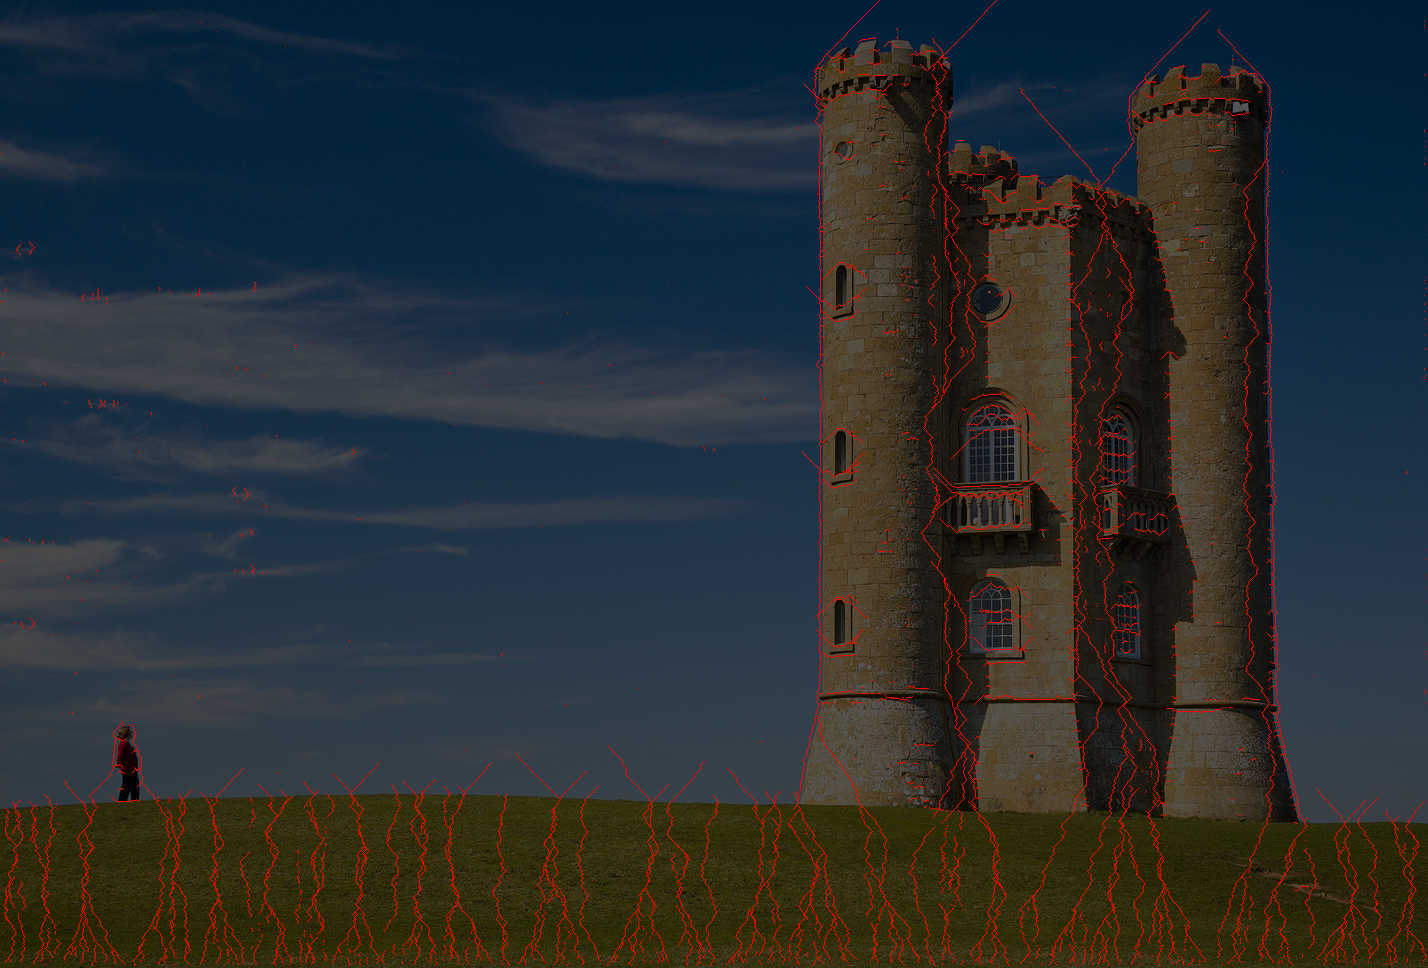
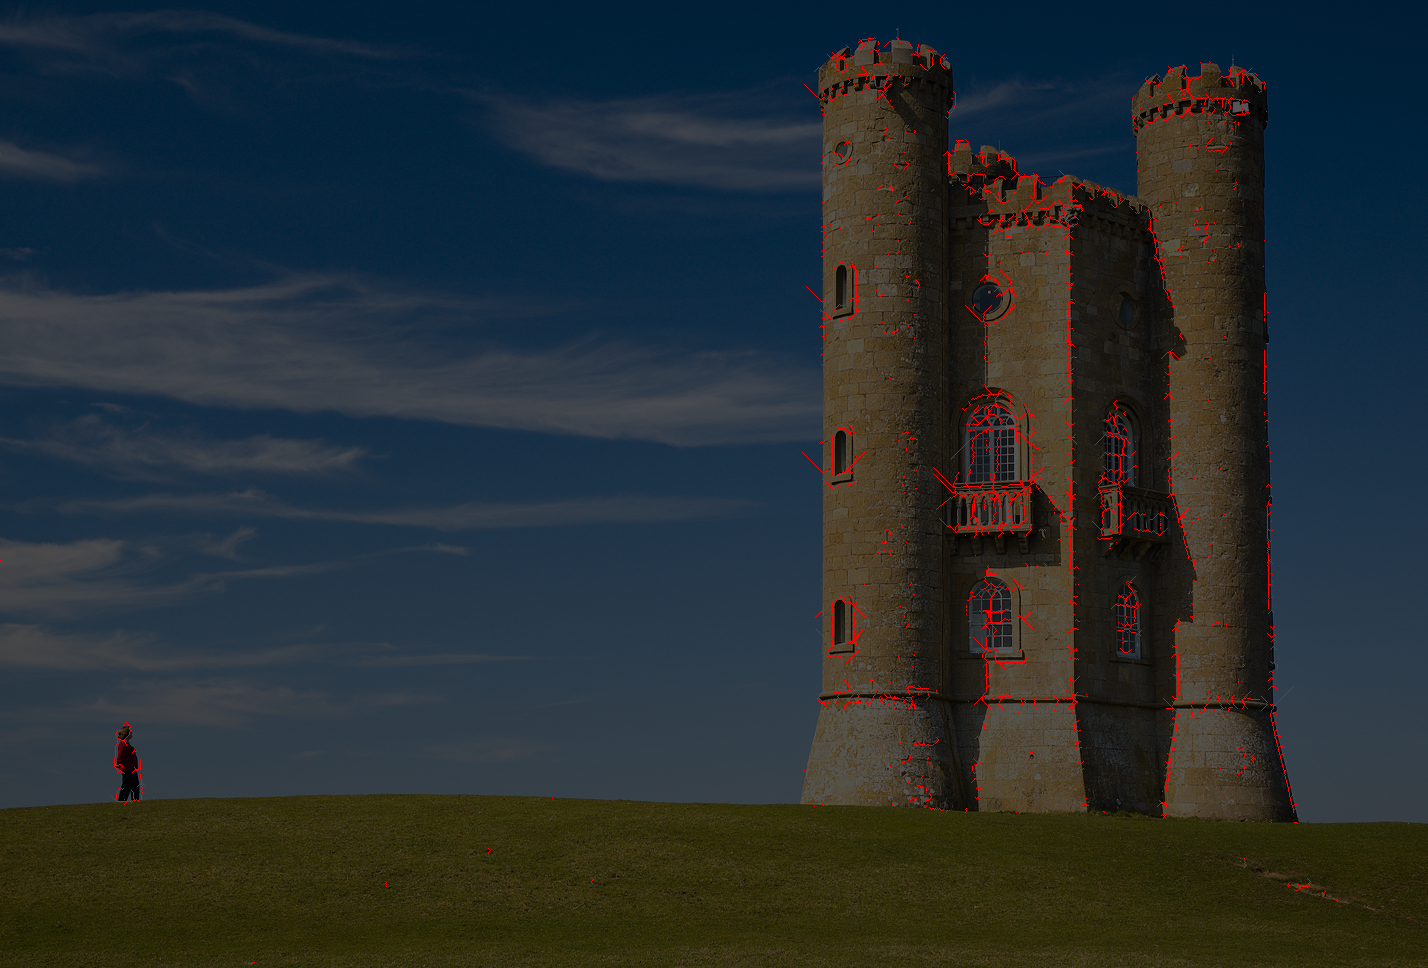
Further experiments

diff --git a/src/libSeamCarve.c b/src/libSeamCarve.c
@@ -86,7 +86,7 @@ static void findSeams(struct pixel *imageVector, int imageWidth, int imageHeight
 
 			// move right-to-left ot bottom-to-top across/up the image
 			//printf("%d\n", (imageSize - 1));
-			for (int j = (imageSize - 1); j >= 0; --j) {
+			for (int j = (imageSize - 1); j > 0; --j) {
 
 				// THIS IS THE CRUCIAL PART
 				if (imageVector[minValueLocation].usecount < (255-SEAM_TRACE_INCREMENT)) {
@@ -97,6 +97,7 @@ static void findSeams(struct pixel *imageVector, int imageWidth, int imageHeight
 				}
 
 				// get the possible next pixles
+				/*
 				if (direction == directionVertical) {
 					if (((minValueLocation - imageWidth + 1) % imageWidth) != 0) {
 						nextPixelR = imageVector[minValueLocation - imageWidth + 1].seamval;
@@ -114,6 +115,19 @@ static void findSeams(struct pixel *imageVector, int imageWidth, int imageHeight
 						nextPixelL = INT_MAX;
 					}
 				}
+				*/
+	            if ((minValueLocation - nextPixelDistR) > 0) {
+	                nextPixelR = imageVector[minValueLocation - nextPixelDistR].seamval;
+	            } else {
+	                nextPixelR = INT_MAX;
+	            }
+	            nextPixelC = imageVector[minValueLocation - nextPixelDistC].seamval;
+	            if ((minValueLocation - nextPixelDistL) < loopEnd) {
+	                nextPixelL = imageVector[minValueLocation - nextPixelDistL].seamval;
+	            } else {
+	                nextPixelL = INT_MAX;
+	            }
+
 				// use the minimum of the possible pixels
 				currentMin = min3(nextPixelR, nextPixelC, nextPixelL);
 
@@ -346,14 +360,83 @@ static int *seamCarve(int *imageVector, int imageWidth, int imageHeight, int ima
 		for (int j = 0; j < imageHeight; ++j) {
 			for (int i = 0; i < imageWidth; ++i) {
 				currentPixel = (j * imageWidth) + i;
+
 				currentBrightness = workingImageH[currentPixel].bright;
 				currentRadians = ((double)currentBrightness / 255.0) * 3.14159265359;
-				workingImageH[currentPixel].bright = (int)(((1.0 - cos(currentRadians)) / 2.0) * 255.0);
-				workingImageV[currentPixel].bright = workingImageH[currentPixel].bright;
+				currentBrightness = (int)(((1.0 - cos(currentRadians)) / 2.0) * 255.0);
+
+				workingImageH[currentPixel].bright = currentBrightness;
+				workingImageV[currentPixel].bright = currentBrightness;
 			}
 		}
 
 	} else if (forceBinarization == 2) {
+		int currentBrightness = 0;
+		double currentRadians = 0;
+		for (int j = 0; j < imageHeight; ++j) {
+			for (int i = 0; i < imageWidth; ++i) {
+				currentPixel = (j * imageWidth) + i;
+
+				currentBrightness = workingImageH[currentPixel].bright;
+				currentRadians = ((double)currentBrightness / 255.0) * 3.14159265359;
+				currentBrightness = (int)(((1.0 - cos(currentRadians)) / 2.0) * 255.0);
+
+				currentRadians = ((double)currentBrightness / 255.0) * 3.14159265359;
+				currentBrightness = (int)(((1.0 - cos(currentRadians)) / 2.0) * 255.0);
+
+				workingImageH[currentPixel].bright = currentBrightness;
+				workingImageV[currentPixel].bright = currentBrightness;
+			}
+		}
+
+	} else if (forceBinarization == 3) {
+		int currentBrightness = 0;
+		double currentRadians = 0;
+		for (int j = 0; j < imageHeight; ++j) {
+			for (int i = 0; i < imageWidth; ++i) {
+				currentPixel = (j * imageWidth) + i;
+
+				currentBrightness = workingImageH[currentPixel].bright;
+				currentRadians = ((double)currentBrightness / 255.0) * 3.14159265359;
+				currentBrightness = (int)(((1.0 - cos(currentRadians)) / 2.0) * 255.0);
+
+				currentRadians = ((double)currentBrightness / 255.0) * 3.14159265359;
+				currentBrightness = (int)(((1.0 - cos(currentRadians)) / 2.0) * 255.0);
+
+				currentRadians = ((double)currentBrightness / 255.0) * 3.14159265359;
+				currentBrightness = (int)(((1.0 - cos(currentRadians)) / 2.0) * 255.0);
+
+				workingImageH[currentPixel].bright = currentBrightness;
+				workingImageV[currentPixel].bright = currentBrightness;
+			}
+		}
+
+	} else if (forceBinarization == 4) {
+		int currentBrightness = 0;
+		double currentRadians = 0;
+		for (int j = 0; j < imageHeight; ++j) {
+			for (int i = 0; i < imageWidth; ++i) {
+				currentPixel = (j * imageWidth) + i;
+
+				currentBrightness = workingImageH[currentPixel].bright;
+				currentRadians = ((double)currentBrightness / 255.0) * 3.14159265359;
+				currentBrightness = (int)(((1.0 - cos(currentRadians)) / 2.0) * 255.0);
+
+				currentRadians = ((double)currentBrightness / 255.0) * 3.14159265359;
+				currentBrightness = (int)(((1.0 - cos(currentRadians)) / 2.0) * 255.0);
+
+				currentRadians = ((double)currentBrightness / 255.0) * 3.14159265359;
+				currentBrightness = (int)(((1.0 - cos(currentRadians)) / 2.0) * 255.0);
+
+				currentRadians = ((double)currentBrightness / 255.0) * 3.14159265359;
+				currentBrightness = (int)(((1.0 - cos(currentRadians)) / 2.0) * 255.0);
+
+				workingImageH[currentPixel].bright = currentBrightness;
+				workingImageV[currentPixel].bright = currentBrightness;
+			}
+		}
+
+	} else if (forceBinarization == 5) {
 		// TODO: merge with above loops and below loops (split)
 		
 		int bins[256];
@@ -383,6 +466,9 @@ static int *seamCarve(int *imageVector, int imageWidth, int imageHeight, int ima
 			}
 		}
 	}
+
+	int tmpDoG = 0;
+	int tmpSobel = 0;
 
 	// get energy values using the prescribed method
 	for (int j = 0; j < imageHeight; ++j) {
@@ -425,6 +511,29 @@ static int *seamCarve(int *imageVector, int imageWidth, int imageHeight, int ima
 				workingImageH[currentPixel].energy = getPixelGaussian(workingImageH, imageWidth, imageHeight, 1, currentPixel, 9999);
 			} else if (forceEdge == 7) {
 				workingImageH[currentPixel].energy = getPixelEnergySimple(workingImageH, imageWidth, imageHeight, currentPixel, 1);
+			} else if (forceEdge == 8) {
+				workingImageH[currentPixel].gaussA = getPixelGaussian(workingImageH, imageWidth, imageHeight, 1, currentPixel, 14);
+				workingImageH[currentPixel].gaussB = getPixelGaussian(workingImageH, imageWidth, imageHeight, 1, currentPixel, 16);
+				
+				workingImageV[currentPixel].gaussA = workingImageH[currentPixel].gaussA;
+				workingImageV[currentPixel].gaussB = workingImageH[currentPixel].gaussB;
+
+				tmpDoG = getPixelEnergyDoG(workingImageH, currentPixel);
+				tmpSobel = getPixelEnergySobel(workingImageH, imageWidth, imageHeight, currentPixel);
+
+				//workingImageH[currentPixel].energy = (tmpDoG + ((tmpSobel / 100) * 20));
+				workingImageH[currentPixel].energy = (tmpDoG + ((tmpSobel / 80) * 20)) / 2;
+			} else if (forceEdge == 9) {
+				workingImageH[currentPixel].bright = getPixelGaussian(workingImageH, imageWidth, imageHeight, 1, currentPixel, 80);
+				tmpDoG = sqrt(getPixelEnergyLaplacian(workingImageH, imageWidth, imageHeight, currentPixel));
+				tmpSobel = getPixelEnergySobel(workingImageH, imageWidth, imageHeight, currentPixel);
+
+				if (tmpDoG && tmpSobel) {
+					workingImageH[currentPixel].energy = (tmpDoG + (tmpSobel / 24));
+					//printf("%d + (%d / 20) = %d \n", tmpDoG, tmpSobel, workingImageH[currentPixel].energy);
+				} else {
+					workingImageH[currentPixel].energy = 0;
+				}
 			}
 
 			workingImageH[currentPixel].seamval = workingImageH[currentPixel].energy;
@@ -541,9 +650,9 @@ static int *seamCarve(int *imageVector, int imageWidth, int imageHeight, int ima
 					resultImage[outputPixel+2] = 0;
 					resultImage[outputPixel+3] = 255;
 				} else {
-					resultImage[outputPixel] = workingImageH[currentPixel].r /3;
-					resultImage[outputPixel+1] = workingImageH[currentPixel].g /3;
-					resultImage[outputPixel+2] = workingImageH[currentPixel].b /3;
+					resultImage[outputPixel] = workingImageH[currentPixel].r /1;
+					resultImage[outputPixel+1] = workingImageH[currentPixel].g /1;
+					resultImage[outputPixel+2] = workingImageH[currentPixel].b /1;
 					resultImage[outputPixel+3] = 255;
 				}
 			}
@@ -592,7 +701,7 @@ static int *seamCarve(int *imageVector, int imageWidth, int imageHeight, int ima
 			}
 		}
 	} else if (resultDirection == 6) {
-		int seamValueScale = 4;
+		int seamValueScale = 16;
 		int currentUseCount = 0;
 		for (int j = 0; j < imageHeight; ++j) {
 			for (int i = 0; i < imageWidth; ++i) {
@@ -629,9 +738,9 @@ static int *seamCarve(int *imageVector, int imageWidth, int imageHeight, int ima
 					resultImage[outputPixel+2] = 0;
 					resultImage[outputPixel+3] = 255;
 				} else {
-					resultImage[outputPixel] = min(max((workingImageH[currentPixel].usecountR), 0), 255);
-					resultImage[outputPixel+1] = min(max((workingImageH[currentPixel].usecountG), 0), 255);
-					resultImage[outputPixel+2] = min(max((workingImageH[currentPixel].usecountB), 0), 255);
+					resultImage[outputPixel] = 255-min(max((workingImageH[currentPixel].usecountR), 0), 255);
+					resultImage[outputPixel+1] = 255-min(max((workingImageH[currentPixel].usecountG), 0), 255);
+					resultImage[outputPixel+2] = 255-min(max((workingImageH[currentPixel].usecountB), 0), 255);
 					resultImage[outputPixel+3] = 255;
 				}
 			}
@@ -652,14 +761,14 @@ static int *seamCarve(int *imageVector, int imageWidth, int imageHeight, int ima
 					resultImage[outputPixel+2] = 0;
 					resultImage[outputPixel+3] = 255;
 				} else {
-					resultImage[outputPixel] = min(max((workingImageV[currentPixel].usecountR), 0), 255);
-					resultImage[outputPixel+1] = min(max((workingImageV[currentPixel].usecountG), 0), 255);
-					resultImage[outputPixel+2] = min(max((workingImageV[currentPixel].usecountB), 0), 255);
+					resultImage[outputPixel] = 255-min(max((workingImageV[currentPixel].usecountR), 0), 255);
+					resultImage[outputPixel+1] = 255-min(max((workingImageV[currentPixel].usecountG), 0), 255);
+					resultImage[outputPixel+2] = 255-min(max((workingImageV[currentPixel].usecountB), 0), 255);
 					resultImage[outputPixel+3] = 255;
 				}
 			}
 		}
-	} else if (resultDirection == 9) {
+	} else if (resultDirection == 99) {
 		int seamValueScale = 4;
 		
 		for (int j = 0; j < imageHeight; ++j) {
@@ -680,6 +789,7 @@ static int *seamCarve(int *imageVector, int imageWidth, int imageHeight, int ima
 				}
 			}
 		}
+
 	} else if (resultDirection == 99) {
 		int seamValueScale = 4;
 		int currentUseCount = 0;
@@ -701,6 +811,44 @@ static int *seamCarve(int *imageVector, int imageWidth, int imageHeight, int ima
 					resultImage[outputPixel+1] = 255;
 					resultImage[outputPixel+2] = 255;
 					resultImage[outputPixel+3] = 0;
+				}
+			}
+		}
+
+	} else if (resultDirection == 99) {
+		int currentUseCount = 0;
+		for (int j = 0; j < imageHeight; ++j) {
+			for (int i = 0; i < imageWidth; ++i) {
+				currentPixel = (j * imageWidth) + i;
+				outputPixel = currentPixel * imageDepth;
+				
+				//currentUseCount = max(workingImageH[currentPixel].usecount, workingImageV[currentPixel].usecount);
+				currentUseCount = min(max((workingImageH[currentPixel].usecount + workingImageV[currentPixel].usecount), 0), 255);
+				resultImage[outputPixel] = 255-currentUseCount;
+				resultImage[outputPixel+1] = 255-currentUseCount;
+				resultImage[outputPixel+2] = 255-currentUseCount;
+				resultImage[outputPixel+3] = 255;
+			}
+		}
+	} else if (resultDirection == 9) {
+		int currentUseCount = 0;
+		for (int j = 0; j < imageHeight; ++j) {
+			for (int i = 0; i < imageWidth; ++i) {
+				currentPixel = (j * imageWidth) + i;
+				outputPixel = currentPixel * imageDepth;
+				
+				//currentUseCount = max(workingImageH[currentPixel].usecount, workingImageV[currentPixel].usecount);
+				currentUseCount = min(max((workingImageH[currentPixel].usecount + workingImageV[currentPixel].usecount), 0), 255);
+				if (!currentUseCount) {
+					resultImage[outputPixel] = 0;
+					resultImage[outputPixel+1] = 0;
+					resultImage[outputPixel+2] = 0;
+					resultImage[outputPixel+3] = 255;
+				} else {
+					resultImage[outputPixel] = 255;
+					resultImage[outputPixel+1] = 255;
+					resultImage[outputPixel+2] = 255;
+					resultImage[outputPixel+3] = 255;
 				}
 			}
 		}

diff --git a/src/sc.c b/src/sc.c
@@ -94,7 +94,10 @@ int main(int argc, char const *argv[])
 				printf("usage: sc [-b 1] [-d 1-3] [-e 1-7] [-g 1-3] [-v] source_PNG_file result_PNG_file\n");
 				
 				printf("          '-b 1' use cosine adjusted brightness \n");
-				printf("          '-b 2' use Otsu binarization (before any Gaussian blurring) \n");
+				printf("          '-b 2' use double-pass cosine adjusted brightness \n");
+				printf("          '-b 3' use triple-pass cosine adjusted brightness \n");
+				printf("          '-b 4' use quadruple-pass cosine adjusted brightness \n");
+				printf("          '-b 5' use Otsu binarization (before any Gaussian blurring) \n");
 
 				printf("          '-d 1' force horizontal direction seams \n");
 				printf("          '-d 2' force vertical direction seams \n");
@@ -113,6 +116,8 @@ int main(int argc, char const *argv[])
 				printf("          '-e 5' use Sobel \n");
 				printf("          '-e 6' use LoG Simple\n");
 				printf("          '-e 7' use Simple Gradient \n");
+				printf("          '-e 8' use DoG + Sobel \n");
+				printf("          '-e 9' use LoG (sigma=8) AND Sobel\n");
 
 				printf("          '-g 1' pre-Gaussian blur (sigma=2) \n");
 				printf("          '-g 2' pre-Gaussian blur (sigma=4) \n");
